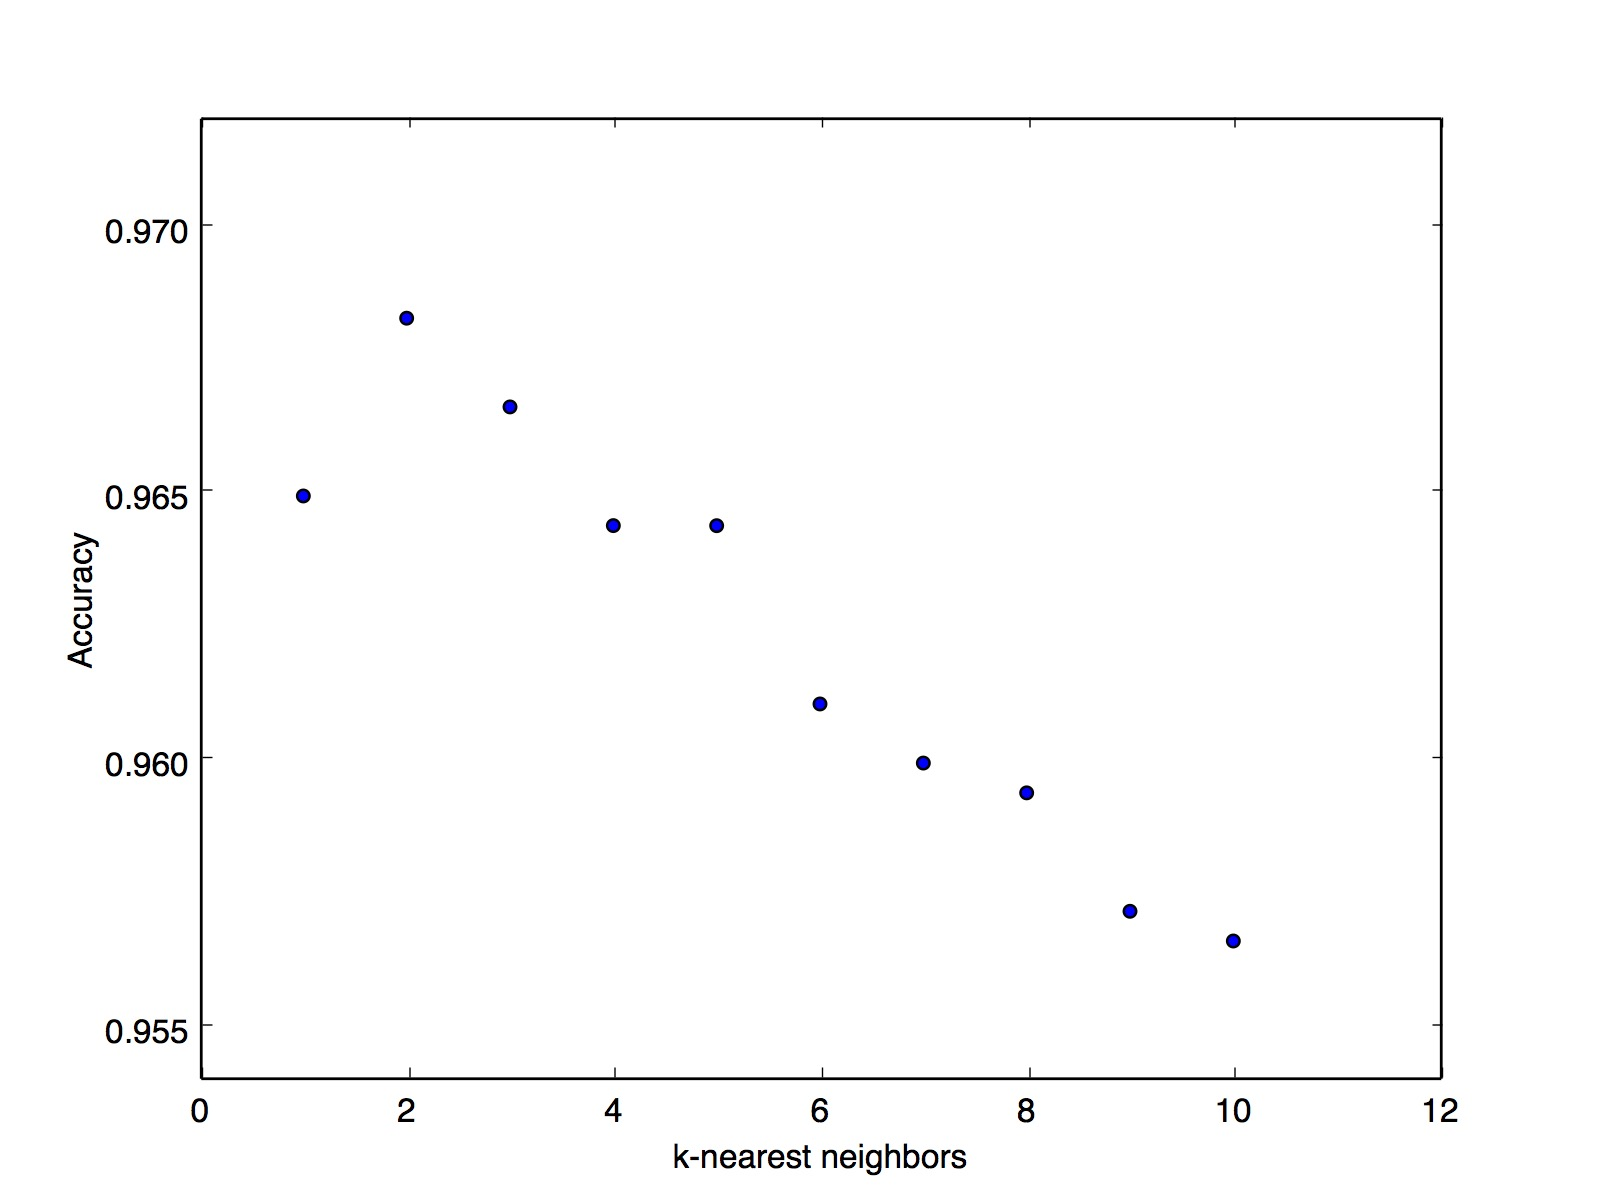
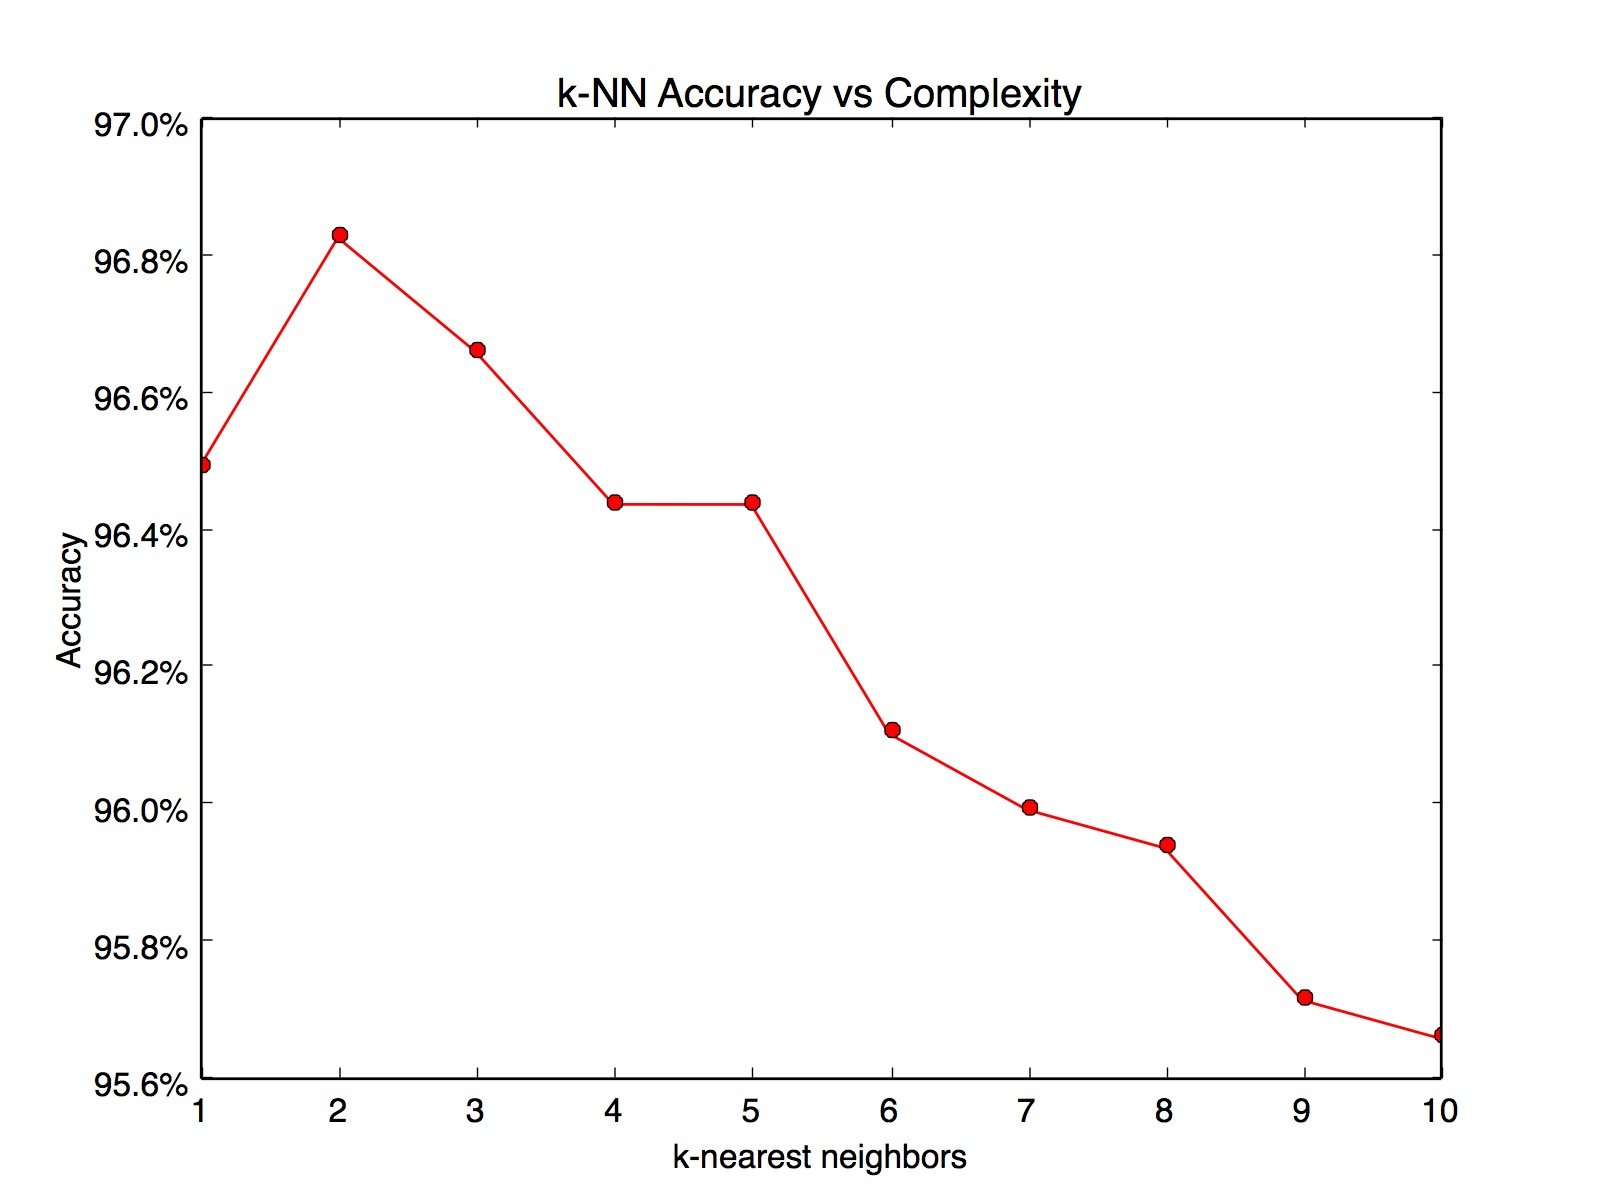
Assn 1: 3 out of 5

diff --git a/Assignment 1/Programs/Heller-assn-1-3-of-5.py b/Assignment 1/Programs/Heller-assn-1-3-of-5.py
@@ -16,15 +16,63 @@ from sklearn.metrics import accuracy_score, recall_score, confusion_matrix
 
 # Import standard scientific Python packages
 import numpy as np
+import matplotlib
 import matplotlib.pyplot as plt
 # get ipython().magic(u'matplotlib inline')
 
 ######################
+#
+# Dataset 1
+#
+# Sci-kit subset of the MNIST database of handwritten digits 0-9. This subset consists of
+# 1797 samples with each digit depicted/store as 8x8 16 grey-scale # images. Thus each sample has 64
+# features.
+#
+# Hyperparameters to vary for model selection:
+#
+#     k - number of nearest neighbors to use to estimate target to start
+#
+#  If time permits explore:
+#
+#     Learning (Split on training/CV/test) - 70%/30%, 80%/20%, 85%/15%, 90%/10% training/test set scheme. Reduce
+#        overfitting by constraining minimum samples_split to 5% of sample to be fit (90%).
+#
+#     d(x,q) - definition of distance, e.g., Manhatten, Euclidean, Distance-Weighted, etc.
+#
+#  Models will be evaluated and selected based on the analysis of the results of parameter variation in
+#  terms of bias, variance and learning curves.
+#
 
-digits = load_digits(n_class=10)
+
+######################
+#
+#  Exploratory data analysis to verify dataset
+#
+# Load MNIST digit data and verify dimensions
+data_set_name = "MNIST Digit Dataset"
+digits = load_digits()
+samples = digits.data.shape[0]
+features = digits.data.shape[1]
+classes = digits.target_names.shape[0]
+print samples
+print features
+print classes
+print digits.target_names
+print digits.data[1:2]
+print digits.target.shape[0]
+
+# Print out examples for 0 - 9 from dataset for report
+#
+
+#pl.matshow(digits.images[12], cmap = pl.cm.gray)
+#print digits.target[12]
+#pl.show()
 
 
-# In[98]:
+
+
+
+
 
 kf = cross_validation.KFold(len(digits.target), n_folds=5)
 print kf
@@ -50,13 +98,33 @@ for neighs in range(1,11):
     # accuracies has 5 values
     print "Mean Accuracy for ", neighs, " neighbors: ", np.mean(accuracies)
     means.append(np.mean(accuracies))
-#means has 10 values
-plt.scatter(range(1,11), means)
-plt.xlabel('k-nearest neighbors')
-plt.ylabel('Accuracy')
-plt.savefig('knn.jpg')
 
-# In[113]:
+def percentFormatter(y,position):
+    s = "{0:.1f}".format(y*100)
+
+    if matplotlib.rcParams['text.usetex']:
+        return s + r'$\%$'
+    else:
+        return s + "%"
+
+# red dashes, blue squares and green triangles
+# plt.plot(t, t, 'r--', t, t**2, 'bs', t, t**3, 'g^')
+
+#means has 10 values
+fig = plt.figure()
+ax = fig.add_subplot(111)
+ax.plot(range(1,11), means, '-ro')
+# plt.plot(range(1,11), test_means, '-go')
+# plt.show()
+# plt.scatter(range(1,11), means)
+ax.set_title("k-NN Accuracy vs Complexity")
+ax.set_xlabel("k-nearest neighbors")
+ax.set_ylabel("Accuracy")
+ax.get_yaxis().set_major_formatter(matplotlib.ticker.FuncFormatter(percentFormatter))
+plt.savefig("knn.jpg")
+
+
+# Exploring SVC
 
 means = []
 for c_value in range(-19,20,2):

diff --git a/Assignment 1/Programs/skl.py b/Assignment 1/Programs/skl.py
@@ -11,6 +11,7 @@ import numpy as np
 from sklearn.svm import SVC
 from sklearn import tree
 import matplotlib.pyplot as plt
+import matplotlib
 # get_ipython().magic(u'matplotlib inline')
 
 
@@ -45,11 +46,28 @@ for neighs in range(1,11):
     # accuracies has 5 values
     print "Mean Accuracy for ", neighs, " neighbors: ", np.mean(accuracies)
     means.append(np.mean(accuracies))
+
+def percentFormatter(y,position):
+    s = "{0:.2f}".format(y*100)
+
+    if matplotlib.rcParams['text.usetex']:
+        return s + r'$\%$'
+    else:
+        return s + "%"
+
+
 #means has 10 values
-plt.scatter(range(1,11), means)
-plt.xlabel('k-nearest neighbors')
-plt.ylabel('Accuracy')
-plt.savefig('knn.jpg')
+fig = plt.figure()
+ax = fig.add_subplot(111)
+ax.plot(range(1,11), means, '-ro')
+# plt.plot(range(1,11), test_means, '-go')
+# plt.show()
+# plt.scatter(range(1,11), means)
+ax.set_title("k-NN Complexity vs Accuracy")
+ax.set_xlabel("k-nearest neighbors")
+ax.set_ylabel("Accuracy")
+ax.get_yaxis().set_major_formatter(matplotlib.ticker.FuncFormatter(percentFormatter))
+plt.savefig("knn.jpg")
 
 # In[113]:
 

diff --git a/Assignment 1/Programs/Heller-kNN.py b/Assignment 1/Programs/Heller-kNN.py
@@ -42,9 +42,6 @@ from sklearn.datasets import load_digits
 # terms of bias, variance and learning curves.
 #
 
-
-# In[19]:
-
 # Exploratory data analysis to verify dataset
 #
 # Load MNIST digit data and verify dimensions
